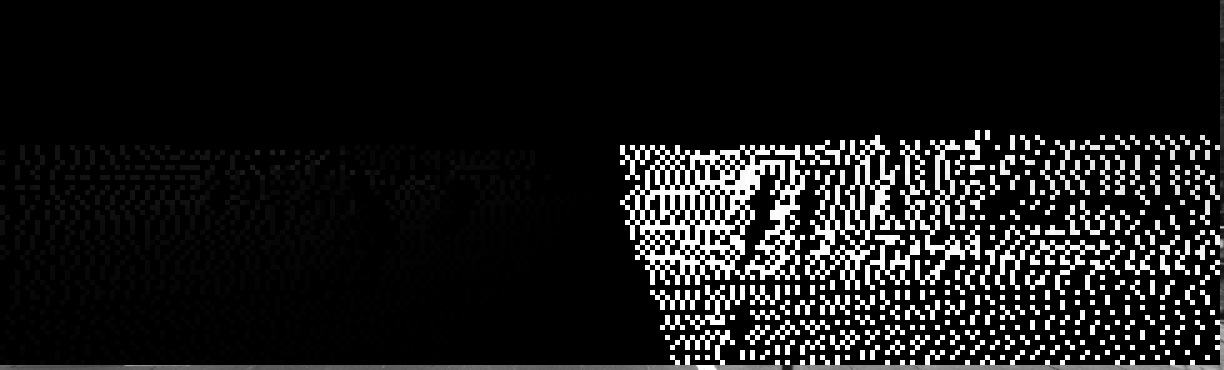
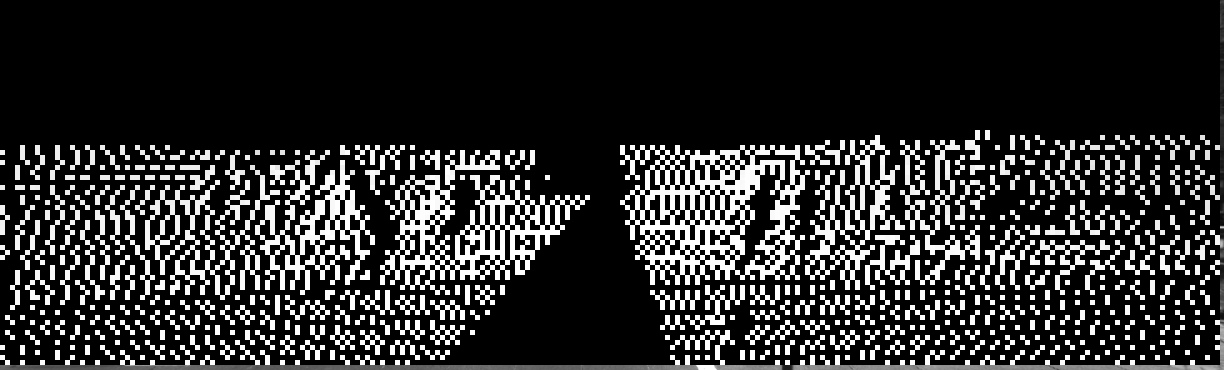
827

Changed region(s): [[0.0, 0.3865, 0.4967, 1.0]]

diff --git a/upsample/src/imageBasics.cpp b/upsample/src/imageBasics.cpp
@@ -211,8 +211,8 @@ int main(int argc, char **argv) {
   }
       
 	  //upsampling process: 
-	  for(int v = pv_ori_zone; v < 5 + pv_ori_zone; v++){
-        for(int u = pu_ori_zone; u < 5 + pu_ori_zone; u++){
+	  for(int v = pv_ori_zone; v < (5 + pv_ori_zone); v++){
+        for(int u = pu_ori_zone; u < (5 + pu_ori_zone); u++){
 		
             S_x=0;Y_x=0;
             S_y=0;Y_y=0;
@@ -228,15 +228,16 @@ int main(int argc, char **argv) {
             Gr_y = dy/mr_y;
             Gr_z = dz/mr_z;
             Gs =  ( (u - pu)*(u - pu) + (v-pv)*(v-pv) );//ij=uv
-            Wp_x = 1/sqrt(Gs*fabs(Gr_x));
+
+            Wp_x = 1/sqrt(Gs*fabs(Gr_x));//>0
             Wp_y = 1/sqrt(Gs*fabs(Gr_y));
-            Wp_z = 1/sqrt(Gs*fabs(Gr_z));/// dz has negative value.
-            S_x = S_x + Wp_x;
+            Wp_z = 1/sqrt(Gs*fabs(Gr_z));
+            S_x = S_x + Wp_x;//>0
             S_y = S_y + Wp_y;
             S_z = S_z + Wp_z;
-            Y_x = Y_x + Wp_x*(dx);
-            Y_y = Y_y + Wp_y*(dy);
-            Y_z = Y_z + Wp_z*(dz);
+            Y_x = Y_x + Wp_x*(-fabs(dx));//<0
+            Y_y = Y_y + Wp_y*(-fabs(dy));
+            Y_z = Y_z + Wp_z*(-fabs(dz));
             
           }
       
@@ -244,7 +245,7 @@ int main(int argc, char **argv) {
           if (S_y==0) {S_y=1;}
           if (S_z==0) {S_z=1;}
 
-          Dx_i = Y_x/S_x;
+          Dx_i = Y_x/S_x;//<0
           Dy_i = Y_y/S_y;
           Dz_i = Y_z/S_z;
         
